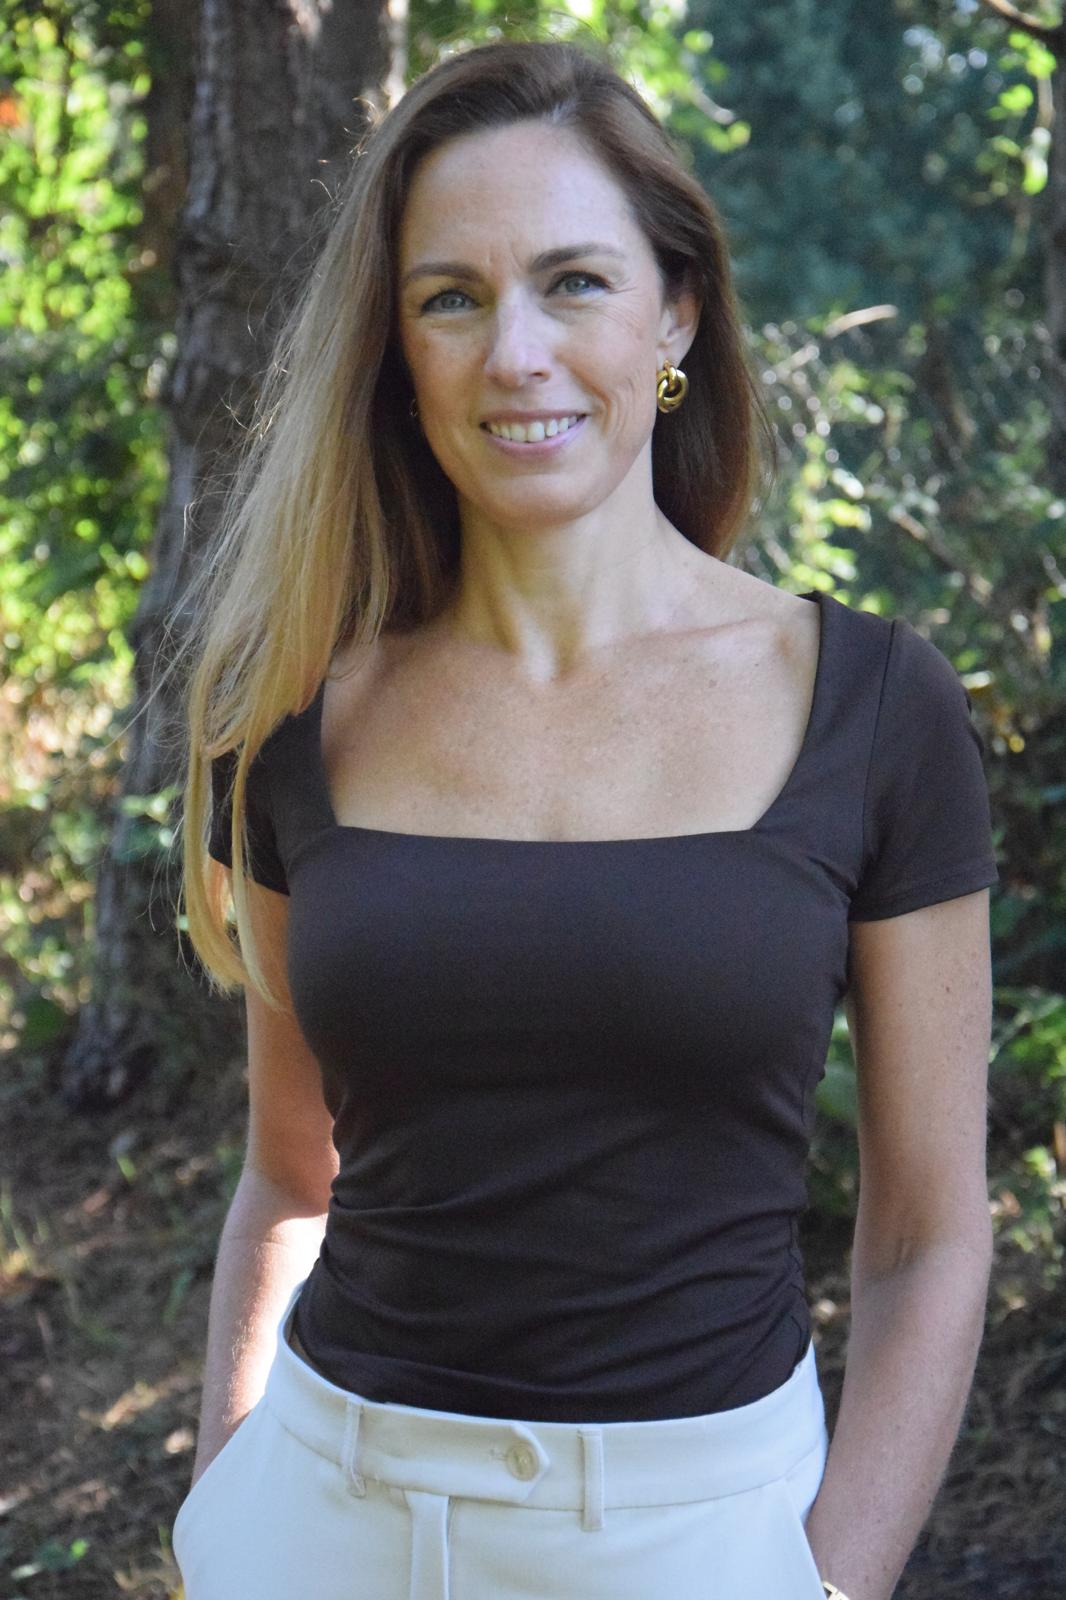
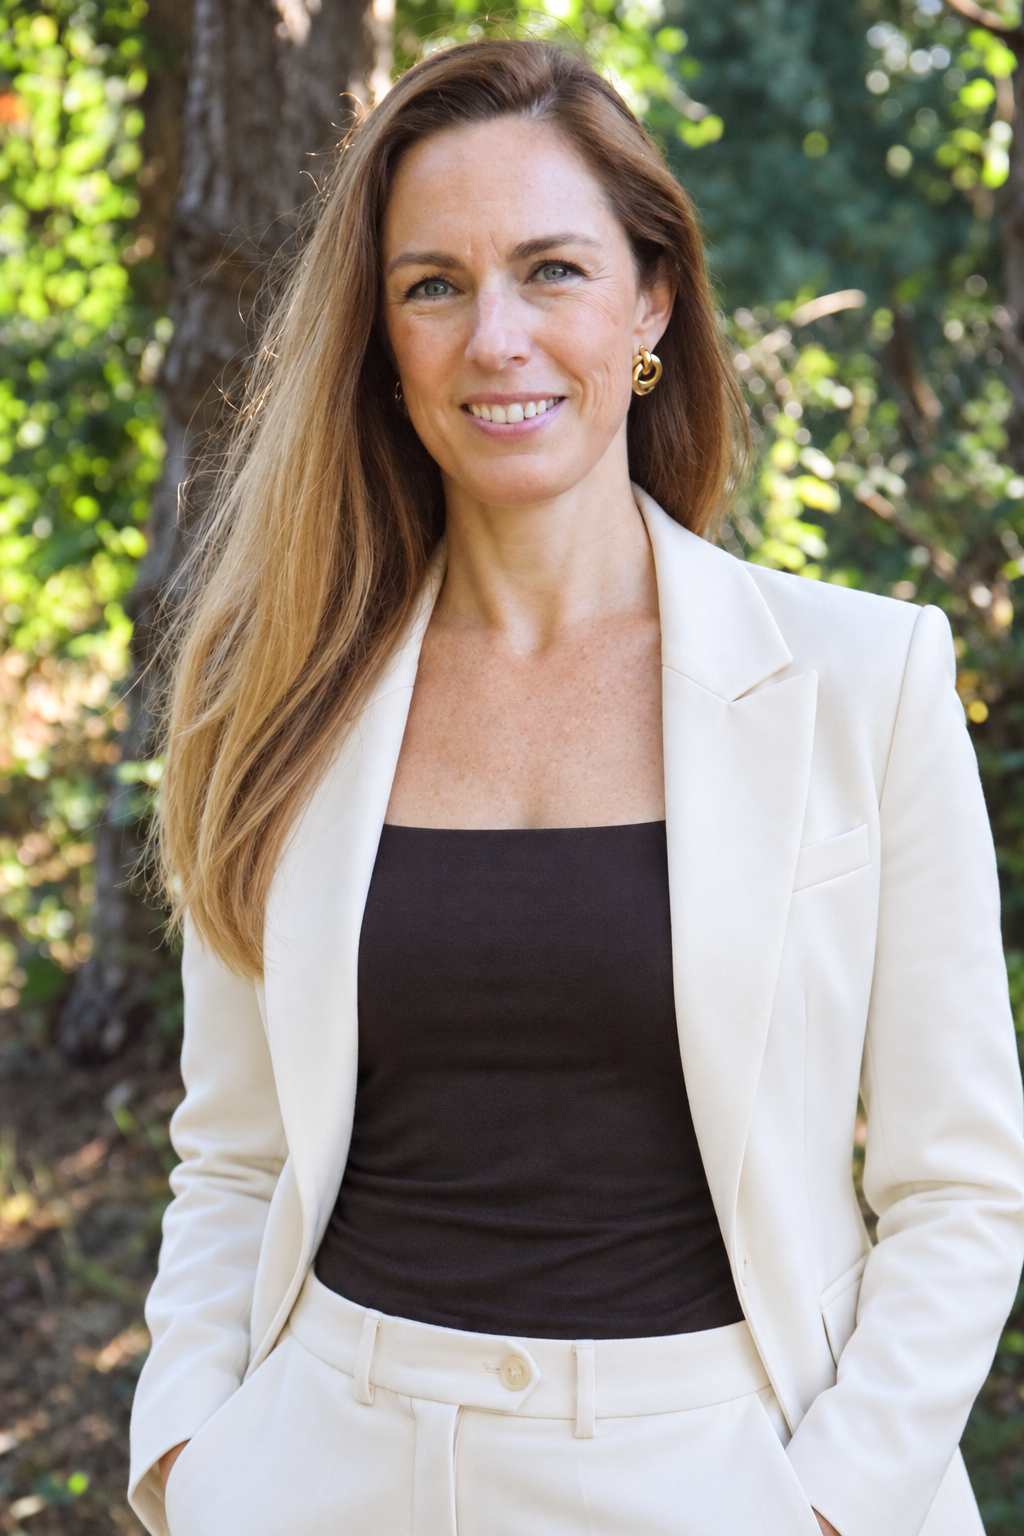
Update hero foto Mariska

diff --git a/components/Hero.jsx b/components/Hero.jsx
@@ -79,15 +79,16 @@ export default function Hero() {
         >
           <div className="absolute h-[90%] w-[90%] rounded-[40px] bg-[#dfe8da] blur-3xl opacity-40" />
 
-          <motion.img
-            src="/mariska.jpg"
-            alt="Mariska Davidse"
-            whileHover={{ scale: 1.02 }}
-            transition={{ duration: 0.4 }}
-            className="relative rounded-[36px] shadow-2xl w-full max-w-md object-cover"
-          />
-        </motion.div>
-      </div>
+          
+<motion.img
+  src="/mariska.jpg"
+  alt="Mariska Davidse"
+  whileHover={{ scale: 1.02 }}
+  transition={{ duration: 0.4 }}
+  className="relative rounded-[36px] shadow-2xl w-full max-w-sm object-cover"
+/>
+</motion.div>
+</div>
 
       <motion.div
         initial={{ opacity: 0 }}
